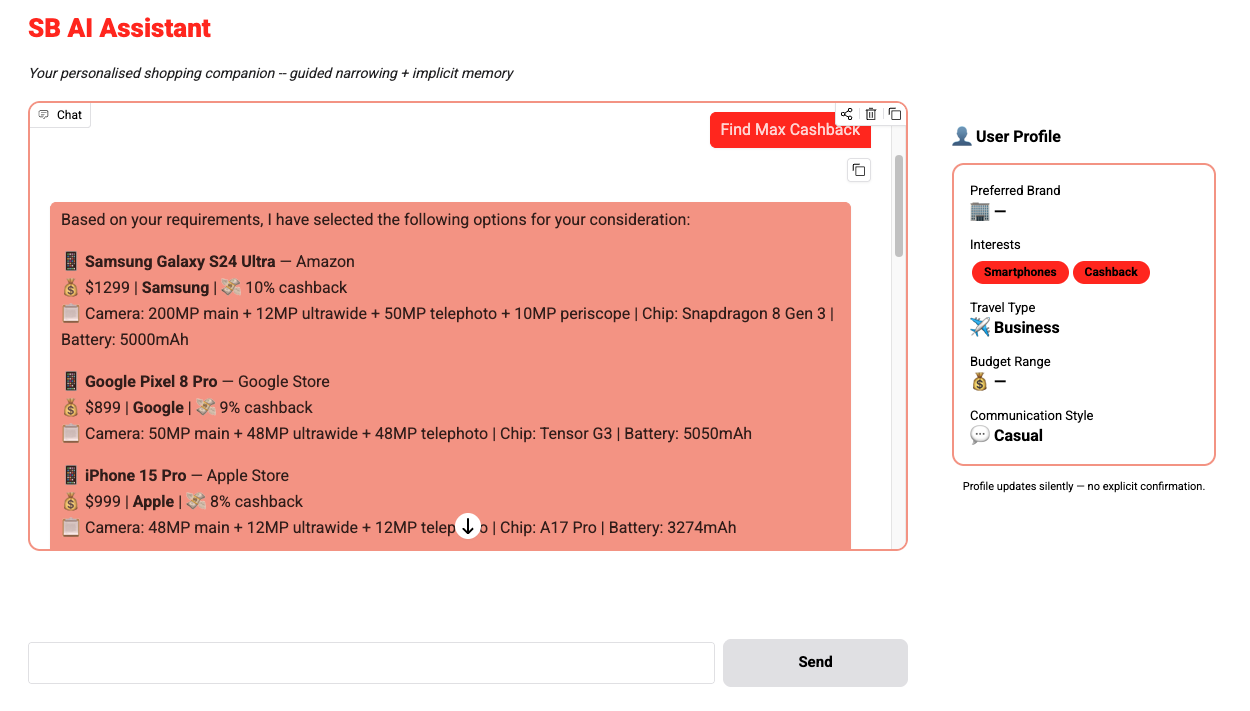
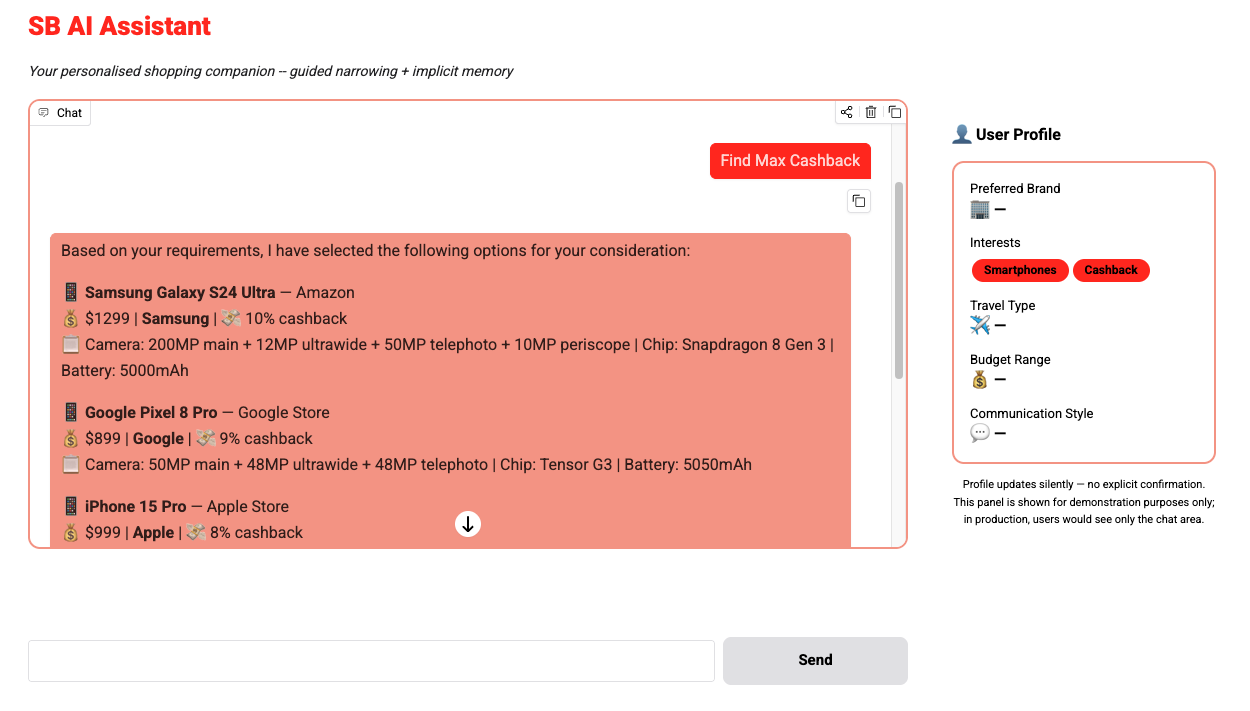
Polish README: Mermaid diagrams, remove Option 3, update UI screenshot

diff --git a/README.md b/README.md
@@ -79,35 +79,29 @@ All LLM outputs and product data are **deterministically mocked** — no externa
 
 The prototype follows a strict three-tier separation to mirror a production environment:
 
-```text
-┌─────────────────┐      HTTP/JSON      ┌─────────────────┐                    ┌─────────────────┐
-│  Gradio Frontend │  <===============>  │  FastAPI Gateway │  <=== State ====>  │  LangGraph Core │
-│  (Chat UI +      │                      │  (Pydantic V2    │                    │  (Router,       │
-│   Profile Panel) │                      │   Contracts)     │                    │   Scoping,      │
-└─────────────────┘                      └─────────────────┘                    │   Guardrails)   │
-                                                                                 └────────┬────────┘
-                                                                                          │ Read
-                                                                                 ┌────────▼────────┐
-                                                                                 │   Mock Data     │
-                                                                                 │   (Products,    │
-                                                                                 │    Profiles,    │
-                                                                                 │    LLM Output)  │
-                                                                                 └─────────────────┘
+```mermaid
+flowchart LR
+    FE["Gradio Frontend<br/>(Chat UI + Profile Panel)"] <-->|HTTP / JSON| API["FastAPI Gateway<br/>(Pydantic V2 Contracts)"]
+    API <-->|State| LG["LangGraph Core<br/>(Router · Scoping · Guardrails)"]
+    LG -->|Read| MD["Mock Data<br/>(Products · Profiles · LLM Output)"]
 ```
 
 ### Agentic Pipeline
 
-```text
-START → [router] ── classifies intent ──────────────────────────────────────────────────────
-                 │
-                 ├── com_style ──────► [profile] ──► [response] ──► END
-                 │
-                 ├── general ────────► [response] ──► [profile] ──► END
-                 │
-                 └── digital/travel ─► [scoping] ──┬── (more scoping) ──► [profile] ──► END
-                                                   │
-                                                   └── (scoping done) ──► [search] ──► [guardrail]
-                                                                          ─► [response] ──► [profile] ──► END
+```mermaid
+flowchart TD
+    START([START]) --> router["router"]
+    router -- com_style --> profile["profile"]
+    router -- general --> response["response"]
+    router -- "digital / travel" --> scoping["scoping"]
+    scoping -- "phase = scoping<br/>(buttons shown)" --> profile
+    scoping -- "phase = ready<br/>(selections done)" --> search["search"]
+    search --> guardrail["guardrail"]
+    guardrail --> response
+    response -- "com_style shortcut" --> END([END])
+    response -- normal --> profile
+    profile -- com_style --> response
+    profile -- "all others" --> END
 ```
 
 **Key behaviours:**
@@ -133,11 +127,11 @@ START → [router] ── classifies intent ────────────
 
 ## Getting Started
 
-### Option 1: Live Demo (No Setup)
+### Live Demo
 
 Visit **[https://lituokobe-sb-ai-assistant.hf.space/](https://lituokobe-sb-ai-assistant.hf.space/)** and follow the three happy paths described in the [Live Demo](#live-demo) section above.
 
-### Option 2: Run Locally
+### Run Locally
 
 #### Prerequisites
 
@@ -174,26 +168,6 @@ uv run python frontend/app.py
 ```
 
 Open `http://localhost:7860` in your browser.
-
-### Option 3: Deploy to Hugging Face Spaces
-
-The project includes a deployment script that creates a clean orphan branch (excluding binary files) and force-pushes to Hugging Face Spaces:
-
-```bash
-# Prerequisites:
-#   1. Create a Space at https://huggingface.co/new-space (SDK: Gradio)
-#   2. Add the Space as a git remote:
-#      git remote add space https://huggingface.co/spaces/<your-username>/<your-space-name>
-#   3. Store your HF access token in git credentials:
-#      git push space main  # prompts for username (HF username) and password (token)
-
-./deploy_hf.sh
-```
-
-The script automatically:
-- Removes binary files (UI_demo.png) from the deployment (HF rejects them in git history)
-- Injects Hugging Face Spaces YAML metadata into README.md (hidden from GitHub)
-- Force-pushes a clean commit to the Space
 
 ---
 
